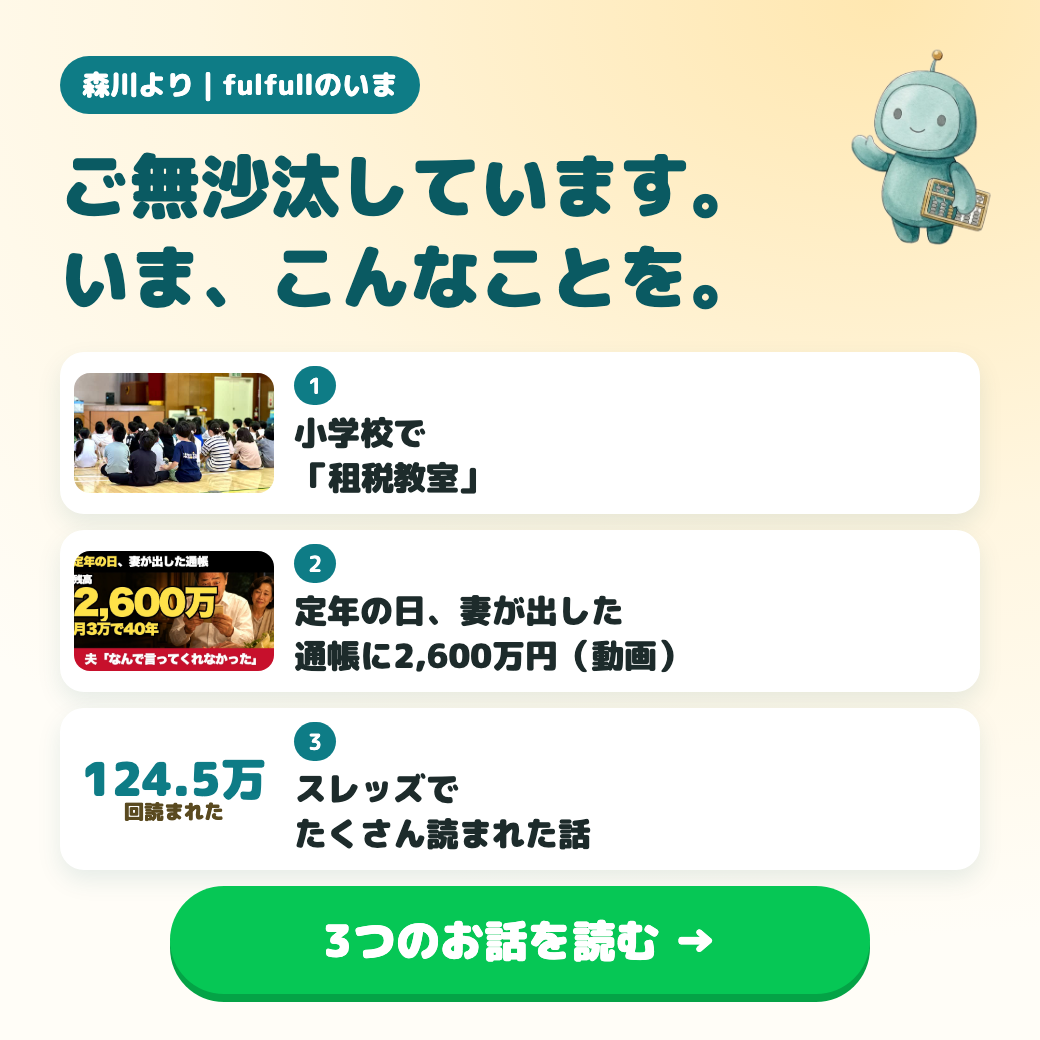
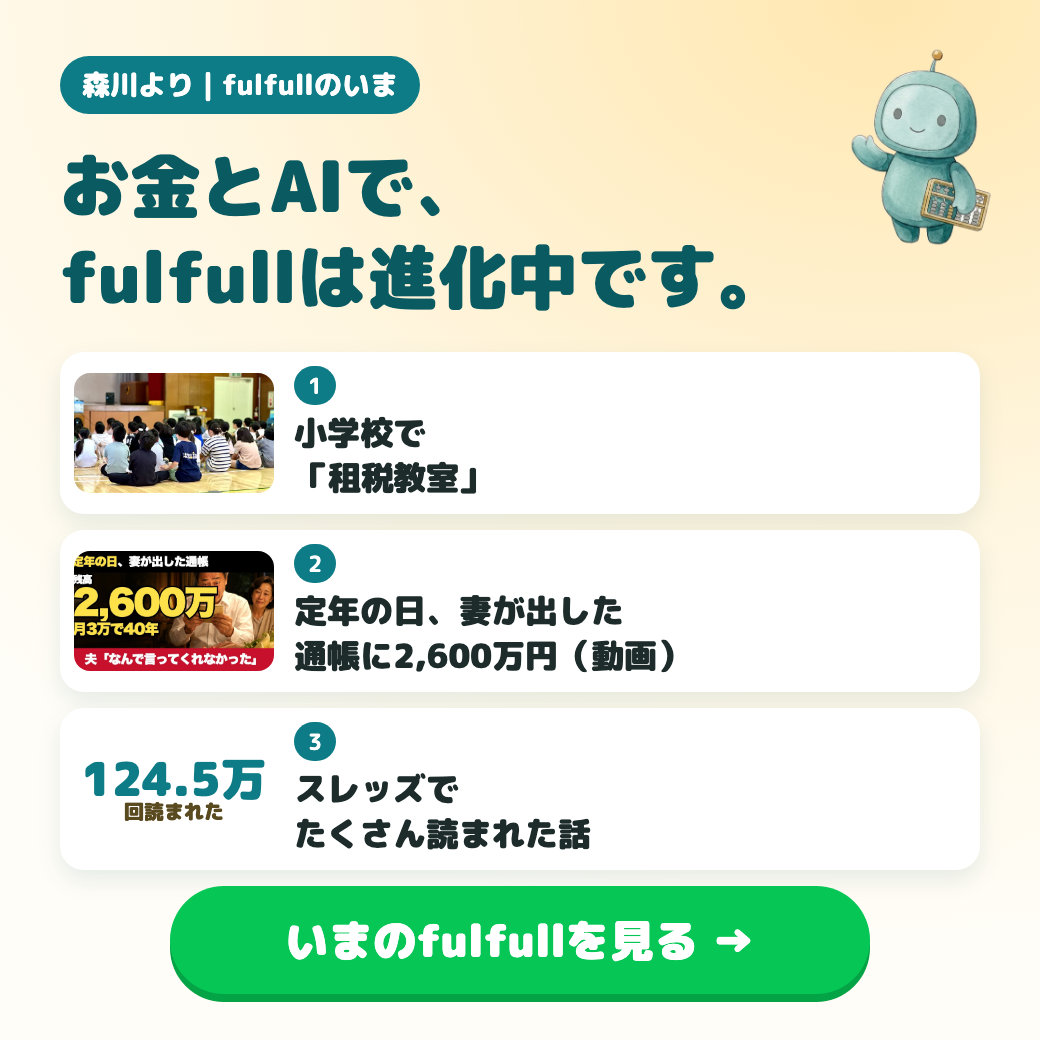
m1: お金とAIで進化中・次回予告・HP

Changed region(s): [[0.0615, 0.1231, 0.7385, 0.3077], [0.2769, 0.8615, 0.7385, 0.9231]]

diff --git a/w/m1/index.html b/w/m1/index.html
@@ -49,15 +49,32 @@ p{font-size:17px;line-height:1.9;margin:0 0 12px}
 .soft{margin-top:18px;text-align:center;font-size:15px;color:var(--sub);line-height:1.8}
 .soft a{color:var(--t);font-weight:800}
 .foot{text-align:center;font-size:14px;color:var(--sub);margin-top:22px;line-height:1.8}
+.msg{margin:18px 0 6px;background:#fff;border:2px solid var(--t);border-radius:20px;padding:16px 16px 14px}
+.msg h3{font-size:19px;margin:0 0 8px;color:var(--td)}
+.msg .two2{display:grid;grid-template-columns:1fr 1fr;gap:8px;margin-top:8px}
+.msg .two2 div{border-radius:14px;padding:10px 12px;font-size:15px;line-height:1.6;font-weight:700}
+.msg .m{background:#E4F2F3;color:var(--td)}.msg .a{background:var(--gb);color:#8A5A00}
+.msg .two2 b{display:block;font-size:17px;margin-bottom:2px}
+.next{margin-top:30px;border-radius:22px;padding:20px 18px;background:radial-gradient(120% 90% at 85% 0%,#1F8F82 0%,#0B4F49 60%,#072F2B 100%);color:#fff}
+.next .k2{display:inline-block;background:#F2C14E;color:#3A2A05;font-weight:800;font-size:14px;border-radius:999px;padding:4px 12px}
+.next h3{font-size:22px;margin:10px 0 8px;line-height:1.45}
+.next p{font-size:16px;opacity:.95;margin:0}
+.hp{display:flex;align-items:center;gap:12px;margin-top:14px;background:#fff;border:1px solid var(--line);border-radius:18px;padding:14px 16px;color:inherit;text-decoration:none;box-shadow:0 8px 22px rgba(10,90,98,.08)}
+.hp b{display:block;font-size:17px;color:var(--td)}.hp span{font-size:14px;color:var(--sub)}
+.hp i{margin-left:auto;font-style:normal;font-weight:900;color:var(--t);font-size:20px}
 </style></head><body><div class="w">
 <header class="hero">
 <span class="brand">森川より｜fulfullのいま</span>
 <div class="date">11月28日（土）</div>
 <h1>ご無沙汰しています。<br>いま、こんなことを<br>しています。</h1>
-<p class="lead">fulfullの最近を、3つのお話にまとめました。<br>気になるところだけ、読んでみてください。</p>
+<p class="lead">fulfullのいまを、3つのお話でお届けします。<br>気になるところだけ、読んでみてください。</p>
 <img class="robo" src="../../img/mascot_base.webp" alt="">
 </header>
 
+<section class="msg"><h3>fulfullは、この2つで進化を続けています。</h3>
+<p style="font-size:16px;margin:0">ご無沙汰しています。fulfullは、相談のお仕事を続けながら、新しいことにも取り組んでいます。</p>
+<div class="two2"><div class="m"><b>お金のこと</b>相談・勉強会・学校での授業・動画やスレッドでの発信</div><div class="a"><b>AIのこと</b>仕事の多くをAIと一緒に回す取り組み（次回くわしく）</div></div>
+</section>
 <nav class="toc">
 <a href="#c"><b>1</b>小学校の「租税教室」</a>
 <a href="#a"><b>2</b>定年の日、妻が出した通帳（動画）</a>
@@ -69,7 +86,7 @@ p{font-size:17px;line-height:1.9;margin:0 0 12px}
 <h2>小学校で、<br>「税金ってなに？」の授業。</h2>
 <p>僕は地元の法人会の一員として、税務署からのご依頼で、小学校を回って「租税教室」をしています。<br>道路や学校、救急車。身の回りのどこに税金が使われているのかを、子どもたちと一緒に考える授業です。</p>
 <img class="ph" src="img/school.jpg" alt="学校の体育館で子どもたちに話す様子" loading="lazy">
-<p class="cap">小学校の体育館で、子どもたちに話したときの様子です。</p>
+<p class="cap">租税教室で、小学校の体育館で子どもたちに話したときの様子です。</p>
 <ul class="pts">
 <li><b>大人向けにも</b>、「そもそも、お金ってなに？」から始める「今更聞けないお金の授業」全10回を、中学生にも分かる言葉で書いています。</li>
 <li><b>これまでに</b>、大手証券会社・ハウスメーカー・小学校や中学校などで、延べ2,000人以上にお金の話を届けてきました。</li>
@@ -104,6 +121,10 @@ p{font-size:17px;line-height:1.9;margin:0 0 12px}
 
 <div class="me"><span class="av">森</span><p>お金の話は、数字より先に「家族の気持ち」が出てくることが多いです。<br>だから僕は、小学校の授業でも大人の相談でも、まず気持ちのところから話すようにしています。</p></div>
 
+<section class="next"><span class="k2">次回のお知らせ</span>
+<h3>次は「AI」のお話です。</h3>
+<p>fulfullでは、相談のあとの作業や発信を、AIと一緒に回すようになりました。<br>どんなことをしているのか、次回お届けします。<br>fulfullは、これからもどんどん進化していきます。</p></section>
+<a class="hp" href="https://mm738966m-boop.github.io/fulfull-links/go/?d=20261128&amp;s=m-w1-hp&amp;to=https%3A%2F%2Ffulfull.jp%2F%3Fref%3Dline_sogo_w1"><div><b>fulfullのホームページ</b><span>fulfull.jp　相談・勉強会・企業研修のご案内</span></div><i>→</i></a>
 <p class="soft">お金の勉強会（オンライン・約1時間）も続けています。<br><a href="https://mm738966m-boop.github.io/fulfull-links/go/?d=20261128&amp;s=m-w1-lp&amp;to=https%3A%2F%2Futage-system.com%2Fp%2FxBWncXOH1VaH%3Fref%3Dline_sogo_w1">日程を見てみる</a></p>
 <p class="foot">fulfull株式会社　森川 満章<br>ときどき、fulfullのいまをお届けします。</p>
 </div>
